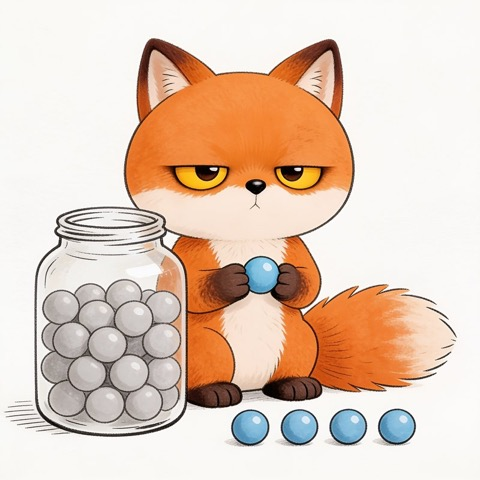
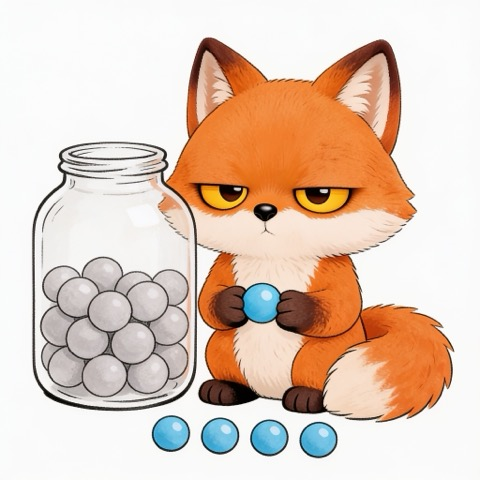
Thumbnails: row styles fixed, the marble fox replaced (Paul: "this one is not" good)
Claude-Session: https://claude.ai/code/session_01MJjWDbuLxg9zP4d5frLi9f

diff --git a/src/app/read/read.module.css b/src/app/read/read.module.css
@@ -41,14 +41,14 @@
 .card { display: grid; gap: 8px; text-decoration: none; color: inherit; align-content: start; }
 .cardImg { display: block; width: 100%; height: auto; aspect-ratio: 16 / 9; object-fit: cover; background: var(--border); margin-bottom: 10px; }
 .cardTitle { font-family: var(--sans); font-weight: 500; font-size: 22px; letter-spacing: -0.015em; line-height: 1.22; }
-.card:hover .cardTitle, .row:hover .rowText { display: grid; gap: 6px; min-width: 0; }
-.rowThumb { width: 64px; height: 64px; flex: 0 0 64px; object-fit: cover; background: var(--border); }
-.rowTitle { color: #3A7CA5; }
+.card:hover .cardTitle, .row:hover .rowTitle { color: #3A7CA5; }
 .cardDek { font-family: var(--serif); font-size: 15.5px; line-height: 1.5; color: #55534F; }
 
 /* everything else: type on hairlines, two columns */
 .rows { list-style: none; margin: 48px 0 0; padding: 0; display: grid; grid-template-columns: repeat(2, minmax(0, 1fr)); column-gap: 72px; border-top: 1px solid var(--border); }
 .row { display: flex; gap: 20px; align-items: flex-start; justify-content: space-between; padding: 18px 0 20px; border-bottom: 1px solid var(--border); text-decoration: none; color: inherit; height: 100%; align-content: start; }
+.rowText { display: grid; gap: 6px; min-width: 0; }
+.rowThumb { width: 64px; height: 64px; flex: 0 0 64px; object-fit: cover; background: var(--border); }
 .rowTitle { font-family: var(--sans); font-weight: 500; font-size: 18px; line-height: 1.3; letter-spacing: -0.01em; }
 .moreBtn { display: block; margin: 48px 0 0; padding: 13px 18px; background: none; border: 1px solid var(--border); font-family: var(--mono); font-size: 13px; color: #3A7CA5; cursor: pointer; }
 .moreBtn:hover { border-color: #3A7CA5; }
